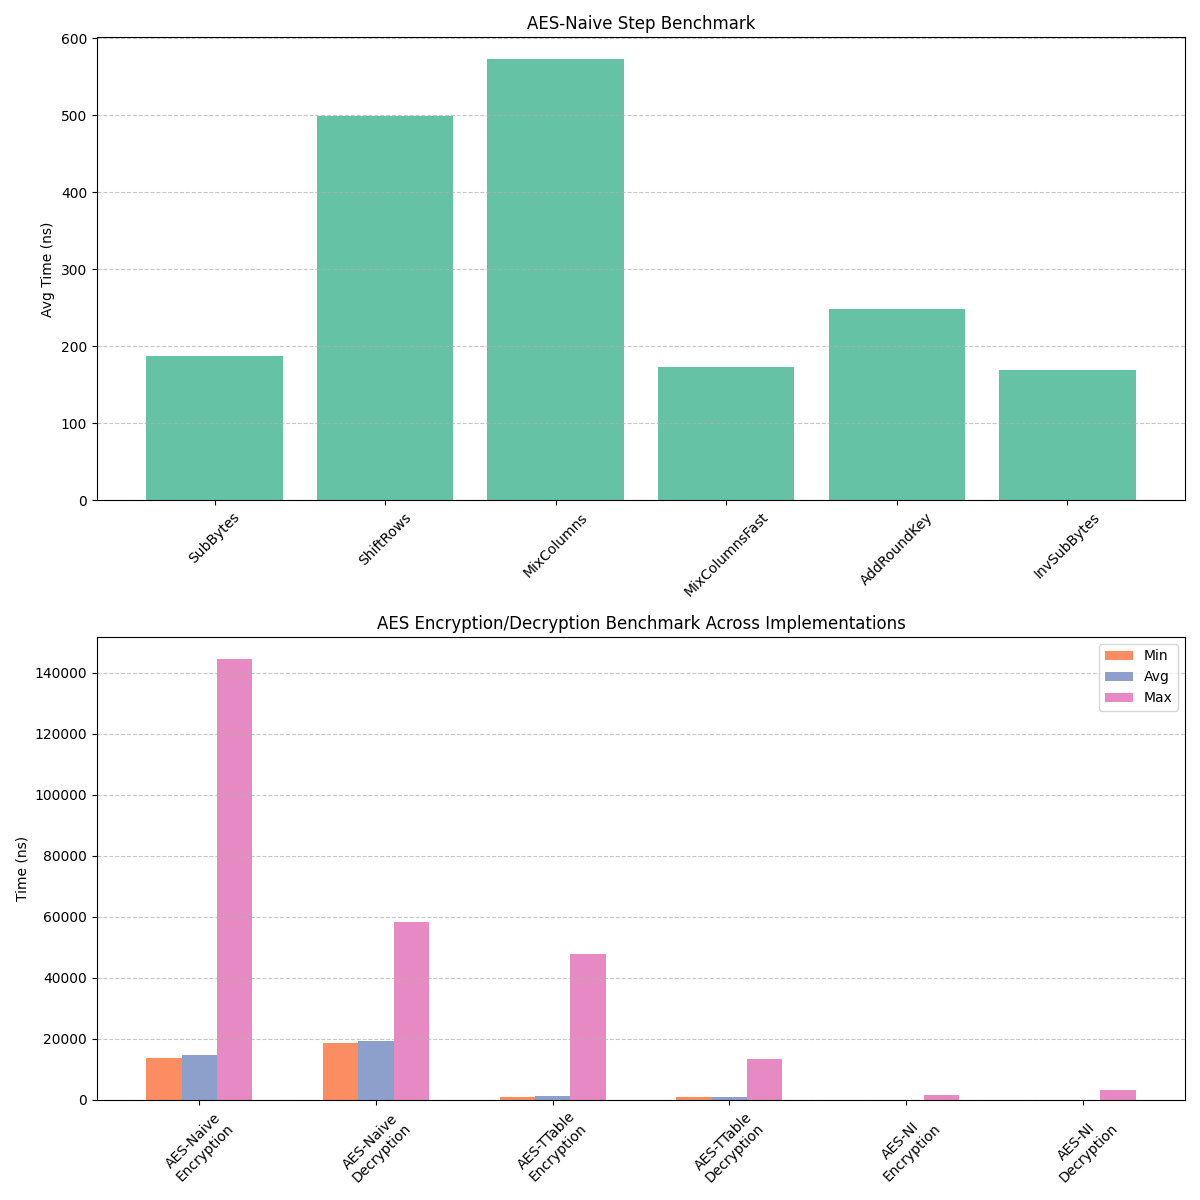
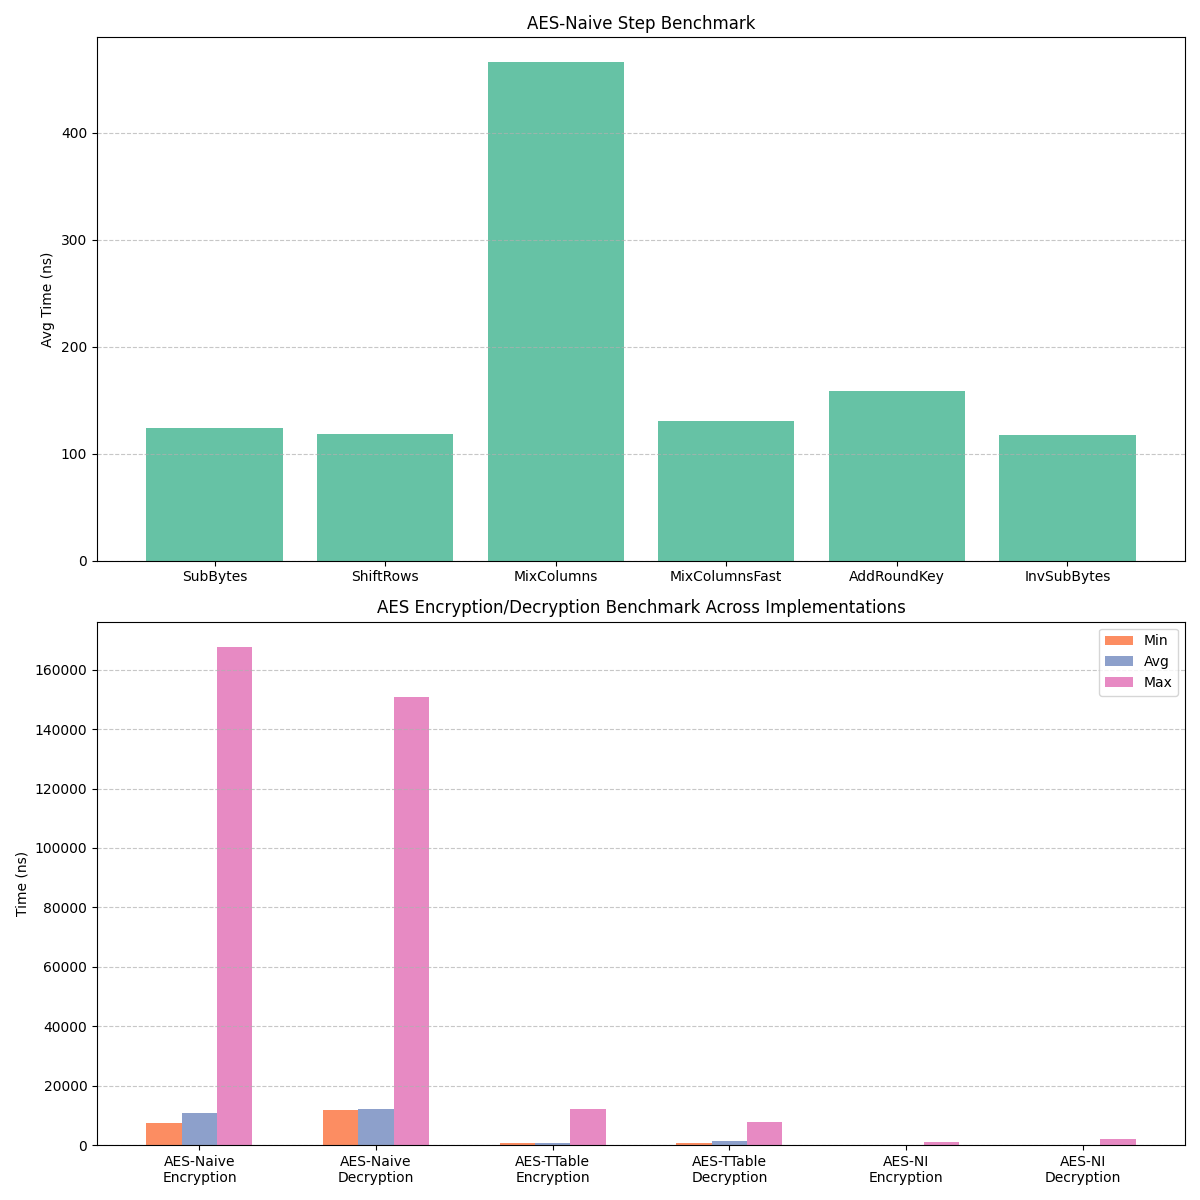
Windows/Linux Compatibility

diff --git a/src/plot_benchmark.py b/src/plot_benchmark.py
@@ -1,10 +1,19 @@
 import pandas as pd
+
+import matplotlib
+matplotlib.use('TkAgg')
 import matplotlib.pyplot as plt
 import numpy as np
 
+from pathlib import Path
+
 # ---------- Load Data ----------
-df_steps = pd.read_csv("..\\benchmark\\benchmark_results.csv")
-df_all = pd.read_csv("..\\benchmark\\benchmark_AES.csv")
+
+steps_file = Path("..") / "benchmark" / "benchmark_results.csv"
+aes_file   = Path("..") / "benchmark" / "benchmark_AES.csv"
+
+df_steps = pd.read_csv(steps_file)
+df_all   = pd.read_csv(aes_file)
 
 # AES-Naive steps
 aes_naive = df_steps[df_steps['Implementation'] == 'AES-Naive']
@@ -29,7 +38,8 @@ colors = plt.get_cmap('Set2').colors  # nice pastel palette
 axes[0].bar(aes_naive_steps['Operation'], aes_naive_steps['Avg_ns'], color=colors[0])
 axes[0].set_ylabel("Avg Time (ns)")
 axes[0].set_title("AES-Naive Step Benchmark")
-axes[0].set_xticklabels(aes_naive_steps['Operation'], rotation=45)
+axes[0].set_xticks(range(len(aes_naive_steps['Operation'])))
+axes[0].set_xticklabels(aes_naive_steps['Operation'], rotation=0)
 axes[0].grid(axis='y', linestyle='--', alpha=0.7)
 
 # --- Bottom subplot: Min/Avg/Max for Encrypt/Decrypt across implementations ---
@@ -52,7 +62,7 @@ axes[1].bar(index, avg_vals, bar_width, label='Avg', color=colors[2])
 axes[1].bar(index + bar_width, max_vals, bar_width, label='Max', color=colors[3])
 
 axes[1].set_xticks(index)
-axes[1].set_xticklabels(x_labels, rotation=45)
+axes[1].set_xticklabels(x_labels, rotation=0)
 axes[1].set_ylabel("Time (ns)")
 axes[1].set_title("AES Encryption/Decryption Benchmark Across Implementations")
 axes[1].legend()
@@ -60,5 +70,6 @@ axes[1].grid(axis='y', linestyle='--', alpha=0.7)
 
 # Save and show
 plt.tight_layout()
-plt.savefig("..\\benchmark\\aes_combined_vertical_colored.png")
+fig_path = Path("..") / "benchmark" / "aes_combined_vertical_colored.png"
+plt.savefig(fig_path)
 plt.show()

diff --git a/src/main.cpp b/src/main.cpp
@@ -2,6 +2,7 @@
 #include <vector>
 
 #include <fstream>
+#include <filesystem>
 #include <array>
 #include <cstdint>
 #include <cstdio>
@@ -19,6 +20,7 @@
 #include <bench_aes.h>
 
 using namespace std;
+using namespace std::filesystem;
 
 using Byte = std::uint8_t;
 
@@ -220,7 +222,8 @@ int main()
 
      // GRAPH CREATION
 
-     std::ofstream csv_file("..\\benchmark\\benchmark_results.csv");
+     path benchmark_result = path("..") / "benchmark" / "benchmark_results.csv";
+     std::ofstream csv_file(benchmark_result);
      csv_file << "Implementation,Operation,Avg_ns,Min_ns,Max_ns,StdDev_ns\n";
 
      write_csv_row(csv_file, "AES-Naive", "Full Encryption", stats_naive_enc);
@@ -234,7 +237,8 @@ int main()
 
      csv_file.close();
 
-     std::ofstream csv_file2("..\\benchmark\\benchmark_AES.csv");
+     path benchmark_path = path("..") / "benchmark" / "benchmark_AES.csv";
+     std::ofstream csv_file2(benchmark_path);
      csv_file2 << "Implementation,Operation,Avg_ns,Min_ns,Max_ns,StdDev_ns\n";
 
      write_csv_row(csv_file2, "AES-Naive", "Encryption", stats_naive_enc);
@@ -246,13 +250,15 @@ int main()
 
      csv_file2.close();
 
-     std::system("python ..\\src\\plot_benchmark.py");
+     path py_script = path("..") / "src" / "plot_benchmark.py";
+     string command = "python " + py_script.string();
+     int result = system(command.c_str());
 
      // =========== FILE ENCRYPTION/DECRYPTION ==============
 
-     std::string input_file = "..\\file\\input.jpg";
-     std::string encrypted_file = "..\\file\\output_encrypted.jpg";
-     std::string decrypted_file = "..\\file\\output_decrypted.jpg";
+     path input_file = path("..") / "file" / "input.jpg";
+     path encrypted_file = path("..") / "file" / "output_encrypted.jpg";
+     path decrypted_file = path("..") / "file" / "output_decrypted.jpg";
 
      AesFileIo file_io;
 

diff --git a/TODO.md b/TODO.md
@@ -1,11 +1,16 @@
-1) generalize the class AES / AESNi / AESTTABLE so that they have an interface, repeat the same tests for aes-ni
+MANDATORY
 
+- Find a reliable aes implementation to compare with our classes and integrate it with our code
+- produce the graph that shows the benchmark of the aes Algorithm against ours
+- write the report 
 
+- produce thorough documentstion to make sure the code will execute on professor's machine
 
-6) compute spatial and temporal complexity of each algo
+NICE-TO-HAVE
 
-7) verify the program works on Ubuntu
+- Simplify main.cpp 
+- structure main output better
 
-8) write README section for Ubuntu
+- add more comments
+- add calibration and blackhole (this one is very important for a good methodology)
 
-10) write paper

diff --git a/README.md b/README.md
@@ -41,4 +41,18 @@ Then setup WSL as default. or first time open, It will ask to create linux usern
 6): cmake .  # build project, then 
     make
 7): ./AES    # run code
+
+
+----
+
+Setup Python on Ubuntu
+
+sudo apt install python3.12-venv
+Y
+python3 -m venv .venv
+source .venv/bin/activate
+pip install --upgrade pip
+pip install matplotlib pandas
+sudo apt install python3-tk
+
    
